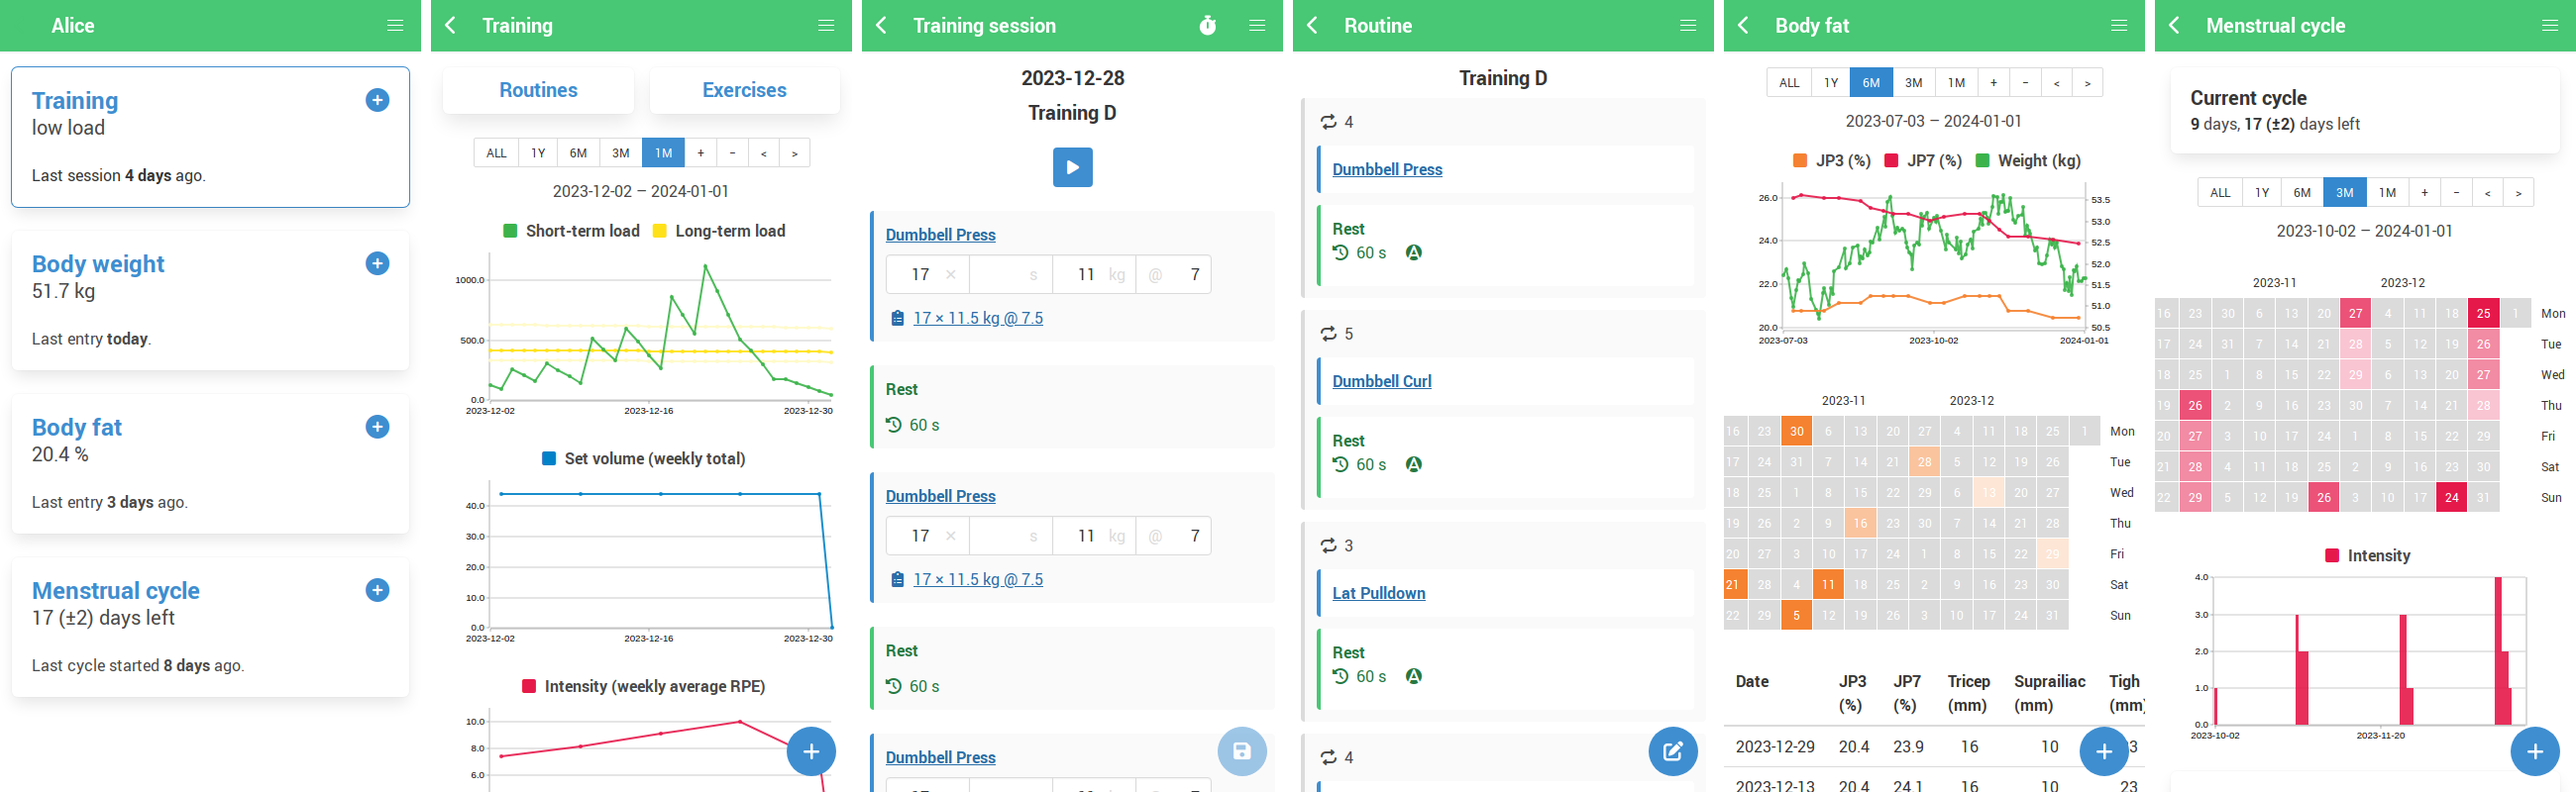
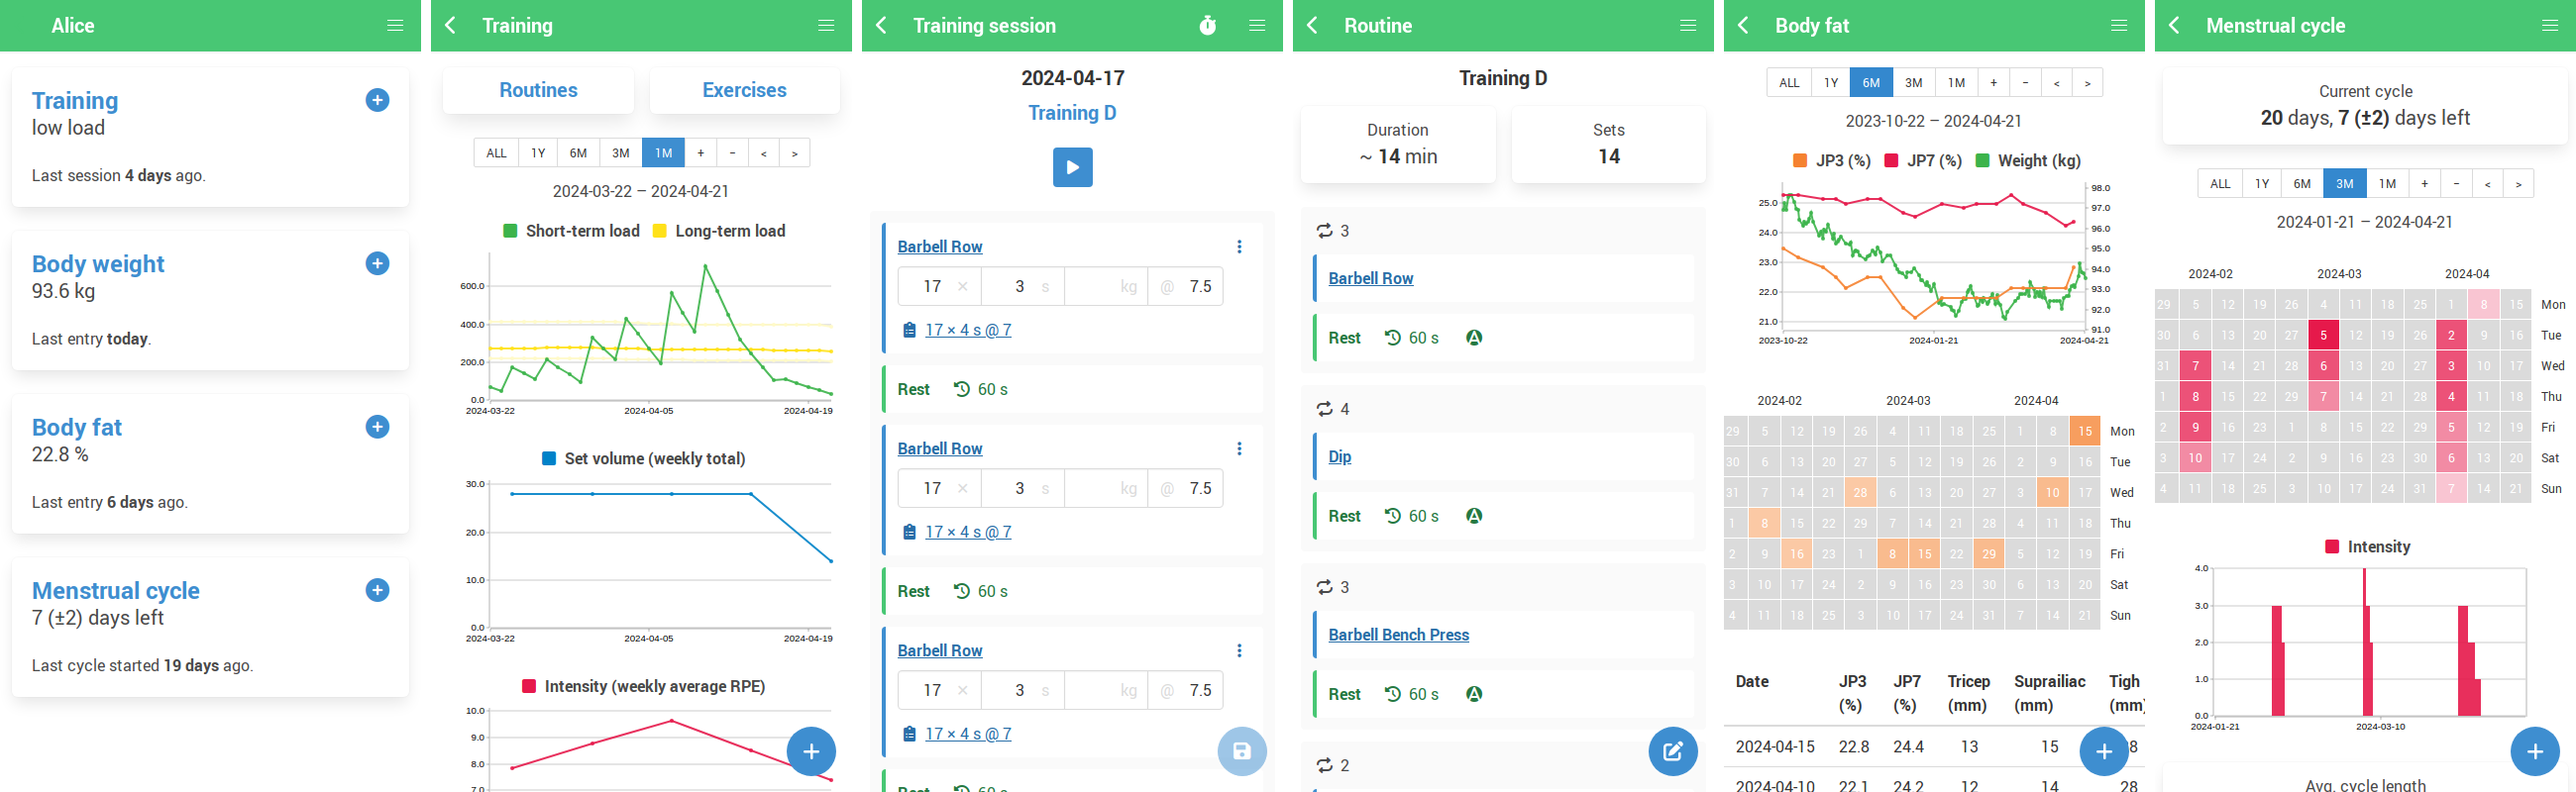
Improve demo data

diff --git a/valens/demo.py b/valens/demo.py
@@ -35,13 +35,14 @@ def users() -> list[User]:
     result = []
     for user_id, name, sex in [(1, "Alice", Sex.FEMALE), (2, "Bob", Sex.MALE)]:
         exercises, routines, workouts = _workouts(user_id)
+        body_weight = _body_weight(user_id)
         result.append(
             User(
                 id=user_id,
                 name=name,
                 sex=sex,
-                body_weight=_body_weight(user_id),
-                body_fat=_body_fat(user_id),
+                body_weight=body_weight,
+                body_fat=_body_fat(body_weight, user_id),
                 period=_period(user_id),
                 exercises=exercises,
                 routines=routines,
@@ -57,7 +58,7 @@ def _body_weight(user_id: int = 1) -> list[BodyWeight]:
     values = [(day, weight)]
 
     for i in range(1, 365):
-        weight += random.gauss(-0.2 if i % 2 == 0 else 0.2, 0.2)
+        weight += random.gauss(-0.1 if i % 2 == 0 else 0.2, 0.2)
         if random.randint(0, 2) == 0:
             continue
         values.append((datetime.date.today() - datetime.timedelta(days=i), weight))
@@ -65,11 +66,9 @@ def _body_weight(user_id: int = 1) -> list[BodyWeight]:
     return [BodyWeight(user_id=user_id, date=d, weight=w) for d, w in values]
 
 
-def _body_fat(user_id: int = 1) -> list[BodyFat]:
-    day = datetime.date.today() - datetime.timedelta(days=random.randint(0, 7))
-    values = []
-
-    previous: tuple[int, ...] = (
+def _body_fat(body_weight: list[BodyWeight], user_id: int = 1) -> list[BodyFat]:
+    initial_bw = body_weight[-1].weight
+    initial_bf: tuple[int, ...] = (
         random.randint(5, 20),
         random.randint(10, 30),
         random.randint(10, 30),
@@ -78,11 +77,14 @@ def _body_fat(user_id: int = 1) -> list[BodyFat]:
         random.randint(5, 20),
         random.randint(5, 20),
     )
-    for _ in range(52):
-        value = tuple(max(1, abs(e + int(random.gauss(0, 0.8)))) for e in previous)
-        previous = value
-        values.append((day, value))
-        day -= datetime.timedelta(days=random.randint(5, 9) + round(random.randint(4, 6) / 10) * 7)
+    bf = []
+    i = 0
+
+    while i < len(body_weight):
+        date = body_weight[i].date
+        factor = body_weight[i].weight / initial_bw
+        bf.append((date, tuple(int(e * factor) + random.randint(0, 1) for e in initial_bf)))
+        i += 7
 
     return [
         BodyFat(
@@ -96,7 +98,7 @@ def _body_fat(user_id: int = 1) -> list[BodyFat]:
             suprailiac=sup,
             midaxillary=mid,
         )
-        for date, (che, abd, tig, tri, sub, sup, mid) in values
+        for date, (che, abd, tig, tri, sub, sup, mid) in bf
     ]
 
 
@@ -135,15 +137,15 @@ def _workouts(user_id: int = 1) -> tuple[list[Exercise], list[Routine], list[Wor
         "Barbell Deadlift": ExerciseType(reps=True, time=False, weight=True, rpe=True),
         "Barbell Lunge": ExerciseType(reps=True, time=False, weight=True, rpe=True),
         "Barbell Romanian Deadlift": ExerciseType(reps=True, time=False, weight=True, rpe=True),
-        "Barbell Row": ExerciseType(reps=True, time=True, weight=False, rpe=True),
-        "Dip": ExerciseType(reps=True, time=True, weight=True, rpe=True),
+        "Barbell Row": ExerciseType(reps=True, time=True, weight=True, rpe=True),
+        "Dip": ExerciseType(reps=True, time=True, weight=False, rpe=True),
         "Dumbbell Curl": ExerciseType(reps=True, time=False, weight=True, rpe=True),
         "Dumbbell Press": ExerciseType(reps=True, time=False, weight=True, rpe=True),
-        "Dumbbell Shoulder Press": ExerciseType(reps=True, time=False, weight=False, rpe=False),
-        "Hip Thrust": ExerciseType(reps=True, time=False, weight=False, rpe=True),
+        "Dumbbell Shoulder Press": ExerciseType(reps=True, time=False, weight=True, rpe=False),
+        "Hip Thrust": ExerciseType(reps=True, time=False, weight=True, rpe=True),
         "Lat Pulldown": ExerciseType(reps=True, time=True, weight=True, rpe=True),
         "Plank": ExerciseType(reps=False, time=True, weight=False, rpe=False),
-        "Pull Up": ExerciseType(reps=True, time=True, weight=True, rpe=True),
+        "Pull Up": ExerciseType(reps=True, time=True, weight=False, rpe=True),
         "Push Up": ExerciseType(reps=True, time=True, weight=False, rpe=True),
         "Seated Leg Curl": ExerciseType(reps=True, time=False, weight=True, rpe=True),
         "Seated Leg Extension": ExerciseType(reps=True, time=False, weight=True, rpe=True),
@@ -163,7 +165,7 @@ def _workouts(user_id: int = 1) -> tuple[list[Exercise], list[Routine], list[Wor
             sections=[
                 RoutineSection(
                     position=p,
-                    rounds=random.randint(1, 5),
+                    rounds=random.randint(2, 5),
                     parts=[
                         RoutineActivity(
                             position=1,
